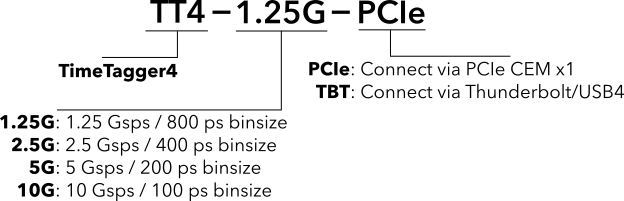
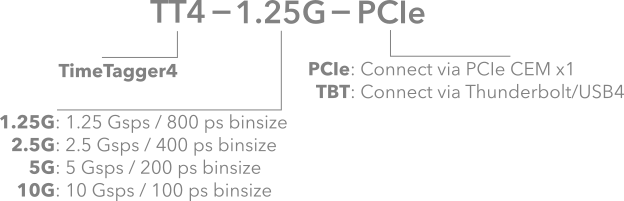
Improve fig colors
they now work better with dark-theme

diff --git a/source/revhistory.rst b/source/revhistory.rst
@@ -22,7 +22,7 @@ xTDC4:
 User Guide
 ----------
 
-1.0.0rc |emdash| 2024-03-21
+1.0.0rc |emdash| 2024-06-18
     Initial release
     
 
